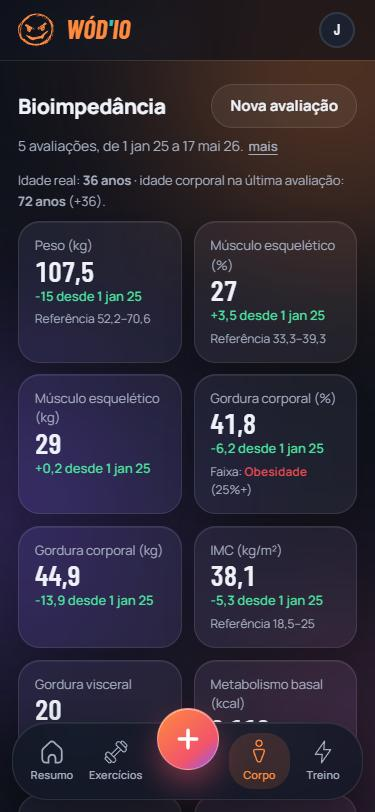
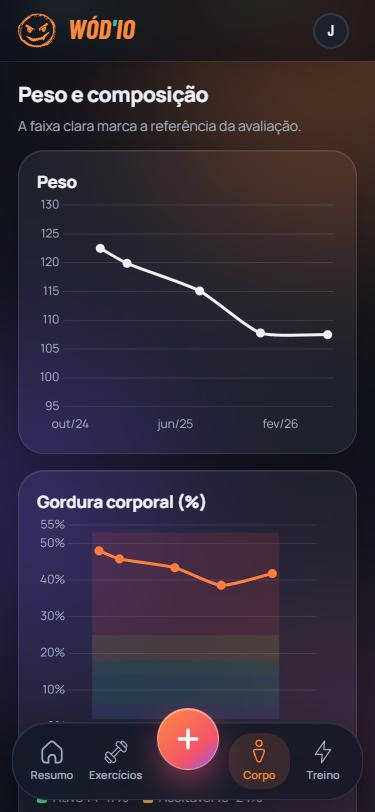
Manual: print de Corpo sem a faixa Obesidade
Troca o painel de bioimpedância pelo gráfico de evolução do peso e da gordura.

diff --git a/manual.html b/manual.html
@@ -475,7 +475,7 @@ footer{margin-top:48px;padding-top:24px;border-top:1px solid var(--line);color:v
     <div class="tels">
       <figure class="tel"><div class="aparelho"><img src="assets/manual/corpo-mapa.jpg" alt="Mapa muscular masculino" loading="lazy"></div><figcaption>Mapa masculino (John).</figcaption></figure>
       <figure class="tel"><div class="aparelho"><img class="claro" src="assets/manual/corpo-mapa-mary.jpg" alt="Mapa muscular feminino" loading="lazy"></div><figcaption>Mapa feminino (Mary).</figcaption></figure>
-      <figure class="tel"><div class="aparelho"><img src="assets/manual/corpo-bio.jpg" alt="Painel de bioimpedância" loading="lazy"></div><figcaption>Bioimpedância: −15 kg desde jan/25.</figcaption></figure>
+      <figure class="tel"><div class="aparelho"><img src="assets/manual/corpo-bio.jpg?v=2" alt="Gráficos de evolução do peso e da gordura corporal" loading="lazy"></div><figcaption>A evolução do peso e da gordura.</figcaption></figure>
       <figure class="tel"><div class="aparelho"><img src="assets/manual/nova-avaliacao.jpg" alt="Nova avaliação com botão Ler foto do laudo" loading="lazy"></div><figcaption>Nova avaliação pela foto.</figcaption></figure>
     </div>
   </div>
